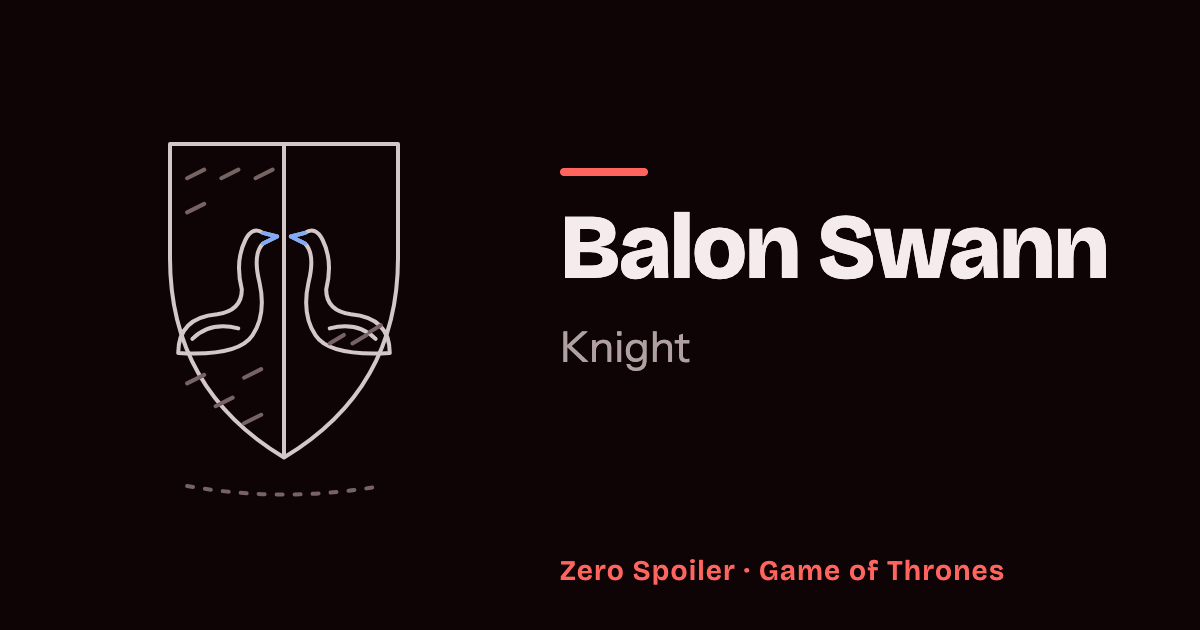
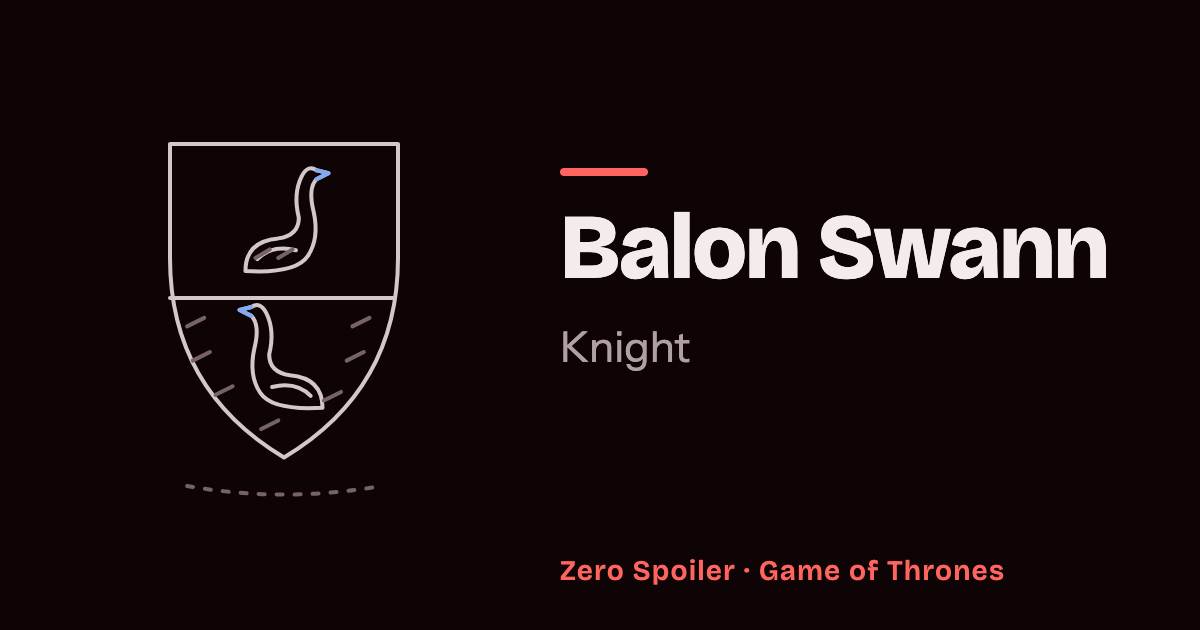
fix(art): address review of the court redrawings (#1289)
Tie the one-medium stage test to the table's source; split Balon Swann's
arms per fess; move Mandon's book death to chapter 141; drop the crossbow
bolt from Dontos's death and the snow from Thoros's.

Changed region(s): [[0.1233, 0.2413, 0.3392, 0.7238]]

diff --git a/src/data/series/game-of-thrones/art/court.ts b/src/data/series/game-of-thrones/art/court.ts
@@ -301,21 +301,21 @@ const SWAN: Stroke[] = [
   { d: 'M72 60 L80 62 L72 66', role: 'accent' },
 ]
 /**
- * Balon Swann: the arms of his house on a shield parted down the middle, a
- * white swan on the black half and a black swan on the white, face to face,
- * for the knight who rides in the Hand's tourney in Sansa II (chapter 30).
- * The book's alone. The black half and the black swan are hatched; the
- * accent is the beaks.
+ * Balon Swann: the arms of his house, per fess white and black, two swans
+ * counterchanged: a black swan on the white upper half and a white swan on
+ * the black lower half, turned the other way. For the knight who rides in
+ * the Hand's tourney in Sansa II (chapter 30). The book's alone. The black
+ * swan and the black half are hatched; the accent is the beaks.
  */
 const SWAN_SHIELD: Stroke[] = [
-  { d: 'M40 40 H120 V80 Q120 126 80 150 Q40 126 40 80 Z M80 40 V150' },
-  ...moved(SWAN, 'translate(28 34) scale(0.62)'),
-  ...moved(SWAN, 'translate(132 34) scale(-0.62 0.62)'),
+  { d: 'M40 40 H120 V80 Q120 126 80 150 Q40 126 40 80 Z M40 94 H119' },
+  ...moved(SWAN, 'translate(54 18) scale(0.52)'),
+  ...moved(SWAN, 'translate(106 66) scale(-0.52 0.52)'),
+  { d: 'M70 80 l5 -3 M78 80 l5 -3', role: 'ambient' },
   {
-    d: 'M46 52 l6 -3 M58 52 l6 -3 M70 52 l6 -3 M46 64 l6 -3 M46 124 l6 -3 M56 132 l6 -3 M66 138 l6 -3 M66 122 l6 -3',
+    d: 'M46 104 l6 -3 M48 116 l6 -3 M56 128 l6 -3 M104 104 l6 -3 M102 116 l6 -3 M94 130 l6 -3 M72 140 l6 -3',
     role: 'ambient',
   },
-  { d: 'M96 110 l5 -3 M104 110 l5 -3 M110 106 l4 -2.4', role: 'ambient' },
   shadow(80, 160, 34),
 ]
 
@@ -434,13 +434,13 @@ export const courtRedrawn: Redrawings = {
   ],
   'mandon-moore': [
     // The banner fallen into the river, its pole broken: he goes into the
-    // Blackwater and drowns, told in Tyrion XIV of A Clash of Kings
-    // (chapter 135). The show kills him in "Blackwater" (episode 19), the
-    // episode he opens in, where no stage can sit, so the stage is the
-    // book's (owner, as Mycah's).
+    // Blackwater, his drowning told by A Clash of Kings 67 (chapter 141), the
+    // first chapter known to confirm it. The show kills him in "Blackwater"
+    // (episode 19), the episode he opens in, where no stage can sit, so the
+    // stage is the book's (owner, as Mycah's).
     {
       episode: 19,
-      chapter: 135,
+      chapter: 141,
       source: 'chapter',
       value: [
         ...moved(STAG_BANNER, 'translate(6 108) scale(1 0.48)'),
@@ -523,19 +523,19 @@ export const courtRedrawn: Redrawings = {
     },
   ],
   'dontos-hollard': [
-    // The cask on its side by the water, the funnel gone and a crossbow
-    // bolt beside it: Littlefinger's men kill him in "Breaker of Chains"
-    // (episode 33), and in Sansa V of A Storm of Swords (chapter 205), the
-    // cask motif as the owner ruled.
+    // The cask on its side by the water, the funnel gone: Littlefinger's men
+    // kill him in "Breaker of Chains" (episode 33), and in Sansa V of A
+    // Storm of Swords (chapter 205). The accent moves to the cask's hoops.
     {
       episode: 33,
       chapter: 205,
       value: [
-        ...moved(CASK, 'translate(-4 10) rotate(-90 80 100) scale(0.86)'),
-        {
-          d: 'M98 150 H144 M144 150 l-6 -4 M144 150 l-6 4 M98 150 l-6 -4 M98 150 l-6 4 M104 150 l-6 -4 M104 150 l-6 4',
-          role: 'accent',
-        },
+        ...moved(
+          CASK.map((stroke, index) =>
+            index === 1 ? { ...stroke, role: 'accent' as const } : stroke,
+          ),
+          'translate(-4 10) rotate(-90 80 100) scale(0.86)',
+        ),
         { d: 'M10 154 H150', role: 'ambient' },
         { ...WATER, transform: 'translate(0 10)' },
       ],
@@ -632,8 +632,8 @@ export const courtRedrawn: Redrawings = {
         { d: 'M118 146 l5 -3 M124 158 l5 -3', role: 'ambient' },
       ],
     },
-    // The red robe under snow and his sword lying spent on it: he dies of
-    // the cold beyond the Wall in "Beyond the Wall" (episode 66). The
+    // The red robe dropped on bare ground and his sword lying spent before
+    // it: he dies beyond the Wall in "Beyond the Wall" (episode 66). The
     // show's alone: in the books he is alive, so chapter 344 only orders
     // it.
     {
@@ -644,26 +644,6 @@ export const courtRedrawn: Redrawings = {
         { d: ROBE, role: 'accent' },
         ROBE_FOLDS,
         { d: LONGSWORD, transform: 'translate(-8 30) rotate(-58 100 121)' },
-        {
-          d: dots([
-            [24, 132],
-            [40, 112],
-            [56, 120],
-            [66, 104],
-            [92, 108],
-            [100, 92],
-            [118, 112],
-            [134, 124],
-            [130, 100],
-            [36, 96],
-            [84, 140],
-          ]),
-          role: 'soft',
-        },
-        {
-          d: 'M16 136 Q32 122 52 126 Q66 116 82 122 M100 118 Q122 114 142 132',
-          role: 'soft',
-        },
         shadow(80, 160, 64),
       ],
     },

diff --git a/src/server/archive/thronesSeason1.test.ts b/src/server/archive/thronesSeason1.test.ts
@@ -429,7 +429,7 @@ const CHANGES: {
     value: 'deceased',
     source: 'episode',
   },
-  { id: 'mandon-moore', episode: 19, chapter: 135, value: 'deceased' },
+  { id: 'mandon-moore', episode: 19, chapter: 141, value: 'deceased' },
   {
     id: 'arys-oakheart',
     episode: 8,
@@ -1201,7 +1201,7 @@ const STAGES: {
   { id: 'arya-stark', episode: 56, chapter: 344, source: 'episode', stage: 3 },
   // The King's Landing court redrawn from the drawing audit (#1289).
   { id: 'meryn-trant', episode: 50, chapter: 344, source: 'episode' },
-  { id: 'mandon-moore', episode: 19, chapter: 135, source: 'chapter' },
+  { id: 'mandon-moore', episode: 19, chapter: 141, source: 'chapter' },
   { id: 'arys-oakheart', episode: 8, chapter: 247, source: 'chapter' },
   { id: 'lancel-lannister', episode: 44, chapter: 256 },
   {
@@ -1263,22 +1263,70 @@ describe.each(
   },
 )
 
+/** A reader at the end of this medium, who has reached all of it. */
+function atTheEnd(unit: Unit): Reader {
+  return unit === 'episode' ?
+      reader('episode', archive.series.episodeCeiling)
+    : reader('chapter', archive.series.chapterCeiling)
+}
+
+/**
+ * The drawing a reader of this medium ends on: the last stage it tells, or
+ * the first drawing when it tells none.
+ */
+function endsOn(id: keyof typeof DRAWINGS, unit: Unit): unknown {
+  const owner = recordOf(id)
+  const told = (REDRAWINGS[id] ?? []).filter(
+    (stage) => (owner.source ?? stage.source ?? unit) === unit,
+  )
+
+  return told.at(-1)?.value ?? DRAWINGS[id]
+}
+
+/**
+ * Whether this stage is a new look: one that does not draw the first
+ * drawing again (Darry rebuilt), which every reader sees anyway.
+ */
+function isNewLook(id: keyof typeof DRAWINGS, index: number): boolean {
+  return (
+    JSON.stringify(REDRAWINGS[id]?.[index]?.value)
+    !== JSON.stringify(DRAWINGS[id])
+  )
+}
+
+/** The medium a stage is told in: its record's, else its own. */
+function mediumOf(
+  id: keyof typeof DRAWINGS,
+  index: number,
+): 'chapter' | 'episode' | undefined {
+  return REDRAWINGS[id]?.[index]?.source ?? recordOf(id).source
+}
+
+/** Whether these strokes are this stage's drawing. */
+function shows(
+  strokes: unknown,
+  id: keyof typeof DRAWINGS,
+  index: number,
+): boolean {
+  return (
+    JSON.stringify(strokes) === JSON.stringify(REDRAWINGS[id]?.[index]?.value)
+  )
+}
+
 describe('the stages one medium alone tells', () => {
+  // A reader of the other medium who has reached its end sees the last
+  // stage their medium tells (Lancel's Sparrow star, before the show alone
+  // kills him), or the first drawing when it tells none. The stage's medium
+  // is held to the table's, so a stage that lost its `source` fails here.
   it.each(STAGES.filter(({ source }) => source !== undefined))(
     'never redraws $id for a reader of the other medium',
-    ({ id, source }) => {
-      const last =
-        source === 'chapter' ?
-          reader('episode', archive.series.episodeCeiling)
-        : reader('chapter', archive.series.chapterCeiling)
-      // The other medium's own last stage, or the first drawing.
-      const other = source === 'chapter' ? 'episode' : 'chapter'
-      const expected =
-        (REDRAWINGS[id] ?? []).findLast(
-          (stage) => (recordOf(id).source ?? stage.source ?? other) === other,
-        )?.value ?? DRAWINGS[id]
+    ({ id, source, stage: index = 0 }) => {
+      const other: Unit = source === 'chapter' ? 'episode' : 'chapter'
+      const drawn = drawingOf(recordOf(id), atTheEnd(other)).strokes
 
-      expect(drawingOf(recordOf(id), last).strokes).toStrictEqual(expected)
+      expect(mediumOf(id, index)).toBe(source)
+      expect(isNewLook(id, index) && shows(drawn, id, index)).toBe(false)
+      expect(drawn).toStrictEqual(endsOn(id, other))
     },
   )
 })

diff --git a/src/data/series/game-of-thrones/records/season-1.ts b/src/data/series/game-of-thrones/records/season-1.ts
@@ -5162,9 +5162,8 @@ export const season1: ThronesSaga = {
       status: [
         { episode: 19, chapter: 52, source: 'chapter', value: 'alive' },
         // Drowned in the Blackwater: on screen in "Blackwater" (episode 19),
-        // his threshold, and told in Tyrion XIV of A Clash of Kings (chapter
-        // 135).
-        { episode: 19, chapter: 135, value: 'deceased' },
+        // his threshold, and confirmed by A Clash of Kings 67 (chapter 141).
+        { episode: 19, chapter: 141, value: 'deceased' },
       ],
       affiliation: [
         {
